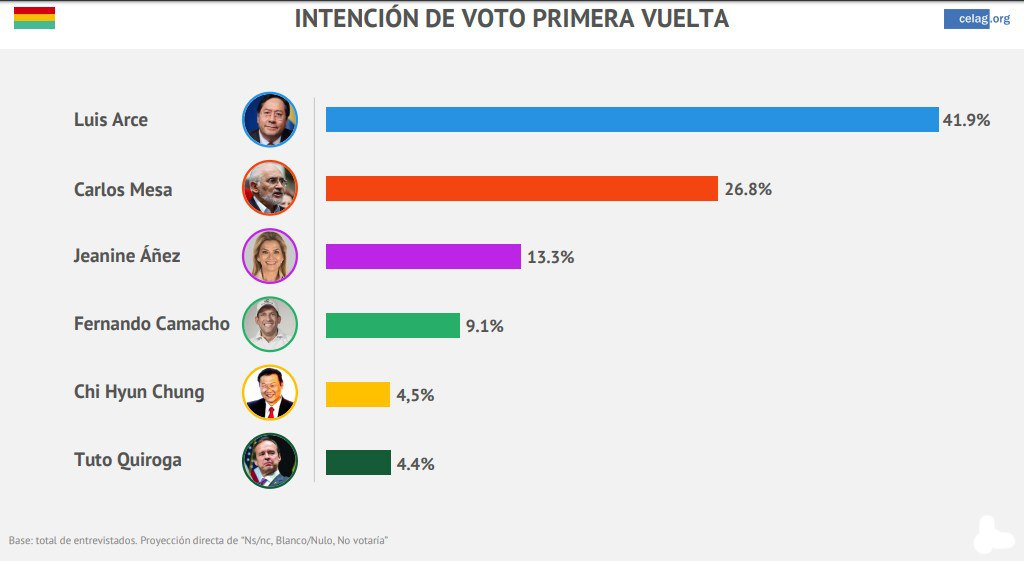
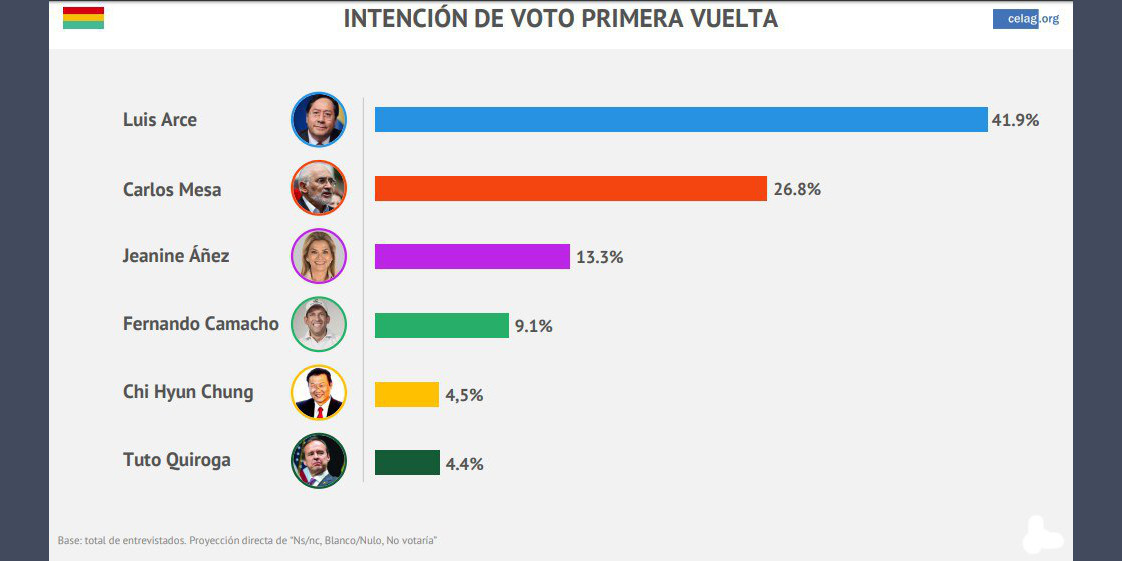
arreglo de Bolivia en disputa laimagen para que se pueda mostrar en twitter,la proporcion tiene que ser 2:1

diff --git a/public/articulos/bolivia-en-disputa/index.html b/public/articulos/bolivia-en-disputa/index.html
@@ -726,9 +726,9 @@
 </div>
 
 
-<div class="article-header article-container featured-image-wrapper mt-4 mb-4" style="max-width: 720px; max-height: 394px;">
+<div class="article-header article-container featured-image-wrapper mt-4 mb-4" style="max-width: 720px; max-height: 360px;">
   <div style="position: relative">
-    <img src="/articulos/bolivia-en-disputa/featured_hu5d76ddab747a4d565934e90354ef32f1_47754_720x0_resize_q90_lanczos.jpg" alt="" class="featured-image">
+    <img src="/articulos/bolivia-en-disputa/featured_hub14bd8311f9e6759829cc306de914435_74865_720x0_resize_q90_lanczos.jpg" alt="" class="featured-image">
     <span class="article-header-caption">Imagen fuente: <strong>la época</strong></span>
   </div>
 </div>

diff --git a/public/index.html b/public/index.html
@@ -1405,7 +1405,7 @@
     
     
     <a href="/articulos/bolivia-en-disputa/" >
-      <img src="/articulos/bolivia-en-disputa/featured_hu5d76ddab747a4d565934e90354ef32f1_47754_150x0_resize_q90_lanczos.jpg" alt="Bolivia en disputa">
+      <img src="/articulos/bolivia-en-disputa/featured_hub14bd8311f9e6759829cc306de914435_74865_150x0_resize_q90_lanczos.jpg" alt="Bolivia en disputa">
     </a>
     
   </div>
